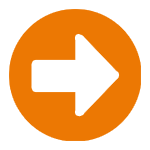
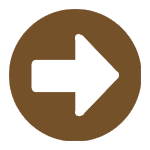
GUI mooi gemaakt

diff --git a/src/resources/css/spelerSelectieStyles.css b/src/resources/css/spelerSelectieStyles.css
@@ -1,9 +1,7 @@
-GridPane {
-    -fx-background-color: #fcba03;
-}
+
 
 .list-view {
-    -fx-background-color: #ec8d11;
+    -fx-background-color: rgba(0,0,0,0.4);
     -fx-background-radius: 4px;
     -fx-border-width: 1px;
     -fx-border-color: white;
@@ -26,11 +24,11 @@ GridPane {
 }
 
 .list-view .cell:even {
-    -fx-background-color: #ec7803;
+    -fx-background-color: rgba(0,0,0,0.2);
 }
 
 .list-view .cell:odd {
-    -fx-background-color: #fa7f03;
+    -fx-background-color: rgba(255,255,255,0.2);
 }
 
 .list-view .cell {
@@ -43,12 +41,12 @@ GridPane {
 }
 
 .list-view .cell:hover {
-    -fx-background-color: #ff9534;
+    -fx-background-color: rgba(255,255,255,0.5);
 }
 
 
 HBox {
-    -fx-background-color: #ec8d11;
+    -fx-background-color: rgba(0,0,0,0.4);
     -fx-border-width: 1px;
     -fx-border-color: white;
     -fx-border-radius: 4px;
@@ -56,18 +54,8 @@ HBox {
     -fx-background-insets: 1px;
 }
 
-.button {
-    -fx-background-color: #ec8d11;
-    -fx-border-width: 1px;
-    -fx-border-color: white;
-    -fx-border-radius: 4px;
-    -fx-background-radius: 4px;
-    -fx-text-fill: white;
-    -fx-background-insets: 1px;
-}
-
-.button:hover {
-    -fx-background-color: #e07d28;
+GridPane {
+    -fx-background-image: url(../img/woodBackground1.jpg);
 }
 
 

diff --git a/src/resources/css/bord.css b/src/resources/css/bord.css
@@ -1,8 +1,46 @@
-GridPane {
+#bord {
+    -fx-background-color: rgba(0, 0, 0, 0.5);
+    -fx-background-insets: 1px;
+}
+
+#bordBeneden
+{
+    -fx-background-color: rgba(0,0,0,0.5);
+    -fx-border-color: white;
+    -fx-border-width: 5px 5px 5px 5px;
+}
+
+#bordBoven
+{
+    -fx-background-color: rgba(0,0,0,0.5);
+    -fx-border-color: white;
+    -fx-border-width: 5px 5px 0px 5px;
+}
+
+#tafel {
+    -fx-background-image: url(../img/woodBackground.jpg);
     -fx-background-color: #fcba03;
+    -fx-background-repeat: no-repeat;
+    -fx-background-size: cover;
+    -fx-background-position: center;
 }
 
 VBox {
     -fx-border-width: 2px;
     -fx-border-color: white;
+}
+
+#stapel
+{
+    -fx-border-width: 1px;
+    -fx-border-color: white;
+}
+
+GridPane Line {
+    -fx-stroke: white;
+}
+
+Pane {
+    -fx-border-color: white;
+    -fx-border-width: 2px;
 }

diff --git a/src/resources/css/loginStyles.css b/src/resources/css/loginStyles.css
@@ -4,7 +4,7 @@
     -fx-prompt-text-fill: rgba(255,255,255,0.8);
 }
 .text-field, .button {
-    -fx-background-color: #ec8d11;
+    -fx-background-color: transparant;
     -fx-border-width: 1px;
     -fx-border-color: white;
     -fx-border-radius: 4px;
@@ -14,5 +14,9 @@
 }
 
 .button:hover {
-    -fx-background-color: #e07d28;
+    -fx-background-color: rgba(255, 255, 255, 0.4);
+}
+
+#linkerScherm {
+    -fx-background-color: rgba(68, 46, 21, 0.7);
 }

diff --git a/src/resources/css/homepage.css b/src/resources/css/homepage.css
@@ -1,5 +1,5 @@
 .button {
-    -fx-background-color: #ec8d11;
+    -fx-background-color: transparant;
     -fx-border-color: white;
     -fx-border-width: 1px;
     -fx-border-radius: 8px;
@@ -8,6 +8,13 @@
 }
 
 .button:hover {
-    -fx-background-color: #e07d28;
+    -fx-background-color: rgba(255, 255, 255, 0.4);
+}
 
+VBox {
+
+}
+
+Pane {
+    -fx-background-color: rgba(0,0,0,0.7);
 }

diff --git a/src/gui/RegistreerSpelerController.java b/src/gui/RegistreerSpelerController.java
@@ -52,7 +52,7 @@ public class RegistreerSpelerController
         try {
             dc.registreerSpeler(gebruikersnaam, geboortejaar);
             wrongLogIn.setText("Speler registreren succesvol!");
-            wrongLogIn.setStyle("-fx-text-fill: green;");
+            wrongLogIn.setStyle("-fx-text-fill: #00e000;");
 
         } catch (GebruikersnaamInGebruikException | TeJongeGebruikerException | OngeldigeGebruikersnaamException |
                  SpatiesInGebruikersnaamException |
